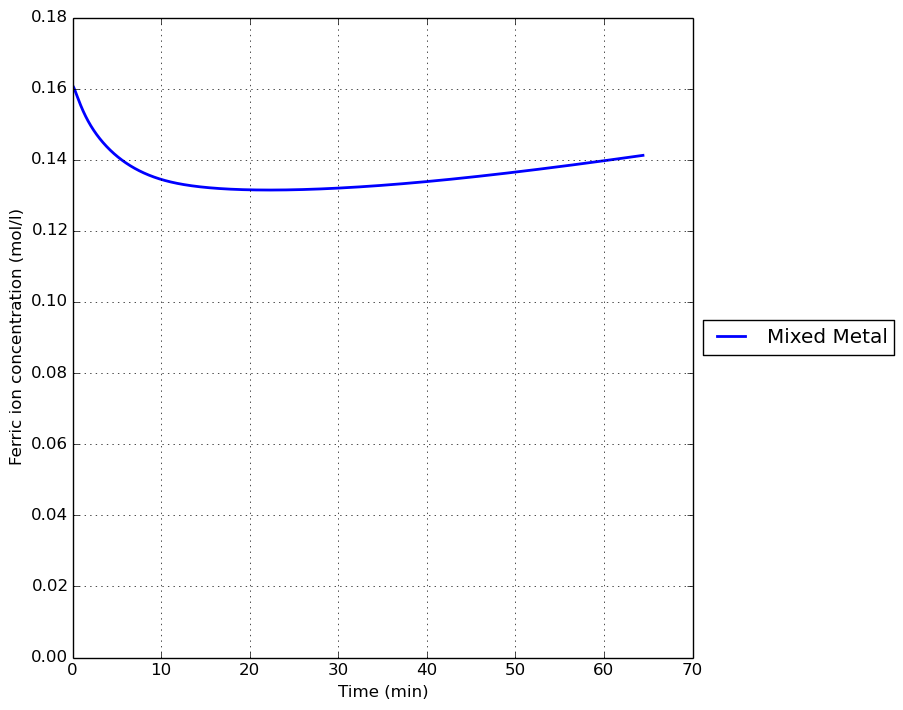
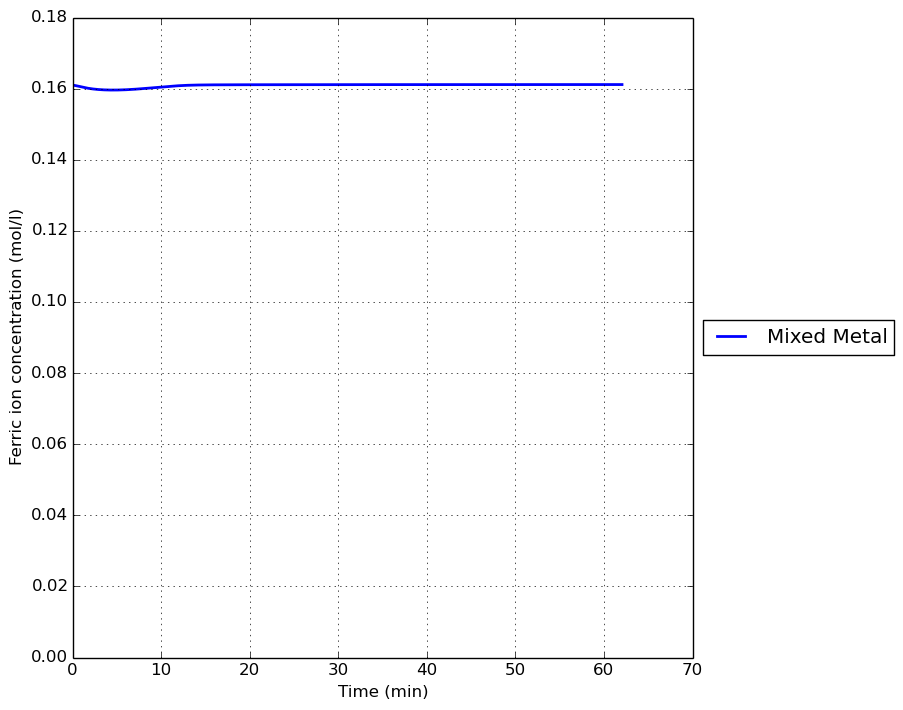
replotting

diff --git a/masters/calculations/management/commands/sensitivity_analysis.py b/masters/calculations/management/commands/sensitivity_analysis.py
@@ -122,6 +122,7 @@ class Command(BaseCommand):
     def mixed_metals_sensitivity_analysis(self):
         analysis_list = [(0, "Mixed Metal")]
         ZN = SN = CU = 2
+        BIOX = 10
 
         output = {}
         sys = system.System(BIOX, CHEM, FERRIC_FERROUS, IRON, initial_metals={"Cu": CU, "Sn": SN, "Zn": ZN})
@@ -243,7 +244,8 @@ class Command(BaseCommand):
         fig_subplot.grid('on')
 
         for i, item in enumerate(analysis_list):
-            line, = fig_subplot.plot(metals_chem[item[1]]["time"], metals_chem[item[1]]["Cu2+"], label="Copper")
+            label = item[1] if self.simulate != "mixed_metals" else "Copper"
+            line, = fig_subplot.plot(metals_chem[item[1]]["time"], metals_chem[item[1]]["Cu2+"], label=label)
             line.set_linewidth(2)
 
             if self.simulate == "mixed_metals":

diff --git a/masters/calculations/system.py b/masters/calculations/system.py
@@ -26,7 +26,7 @@ class System(object):
         self.system_type = None
         self.system_components = [] # List of all the ions in the system
         self.MAX_TIME = 10 # seconds
-        self.FINAL_CONVERSION = 0.95
+        self.FINAL_CONVERSION = 0.99
 
     def convert_initial_metals_to_moles(self, initial_metals):
         for k, v in initial_metals.iteritems():
